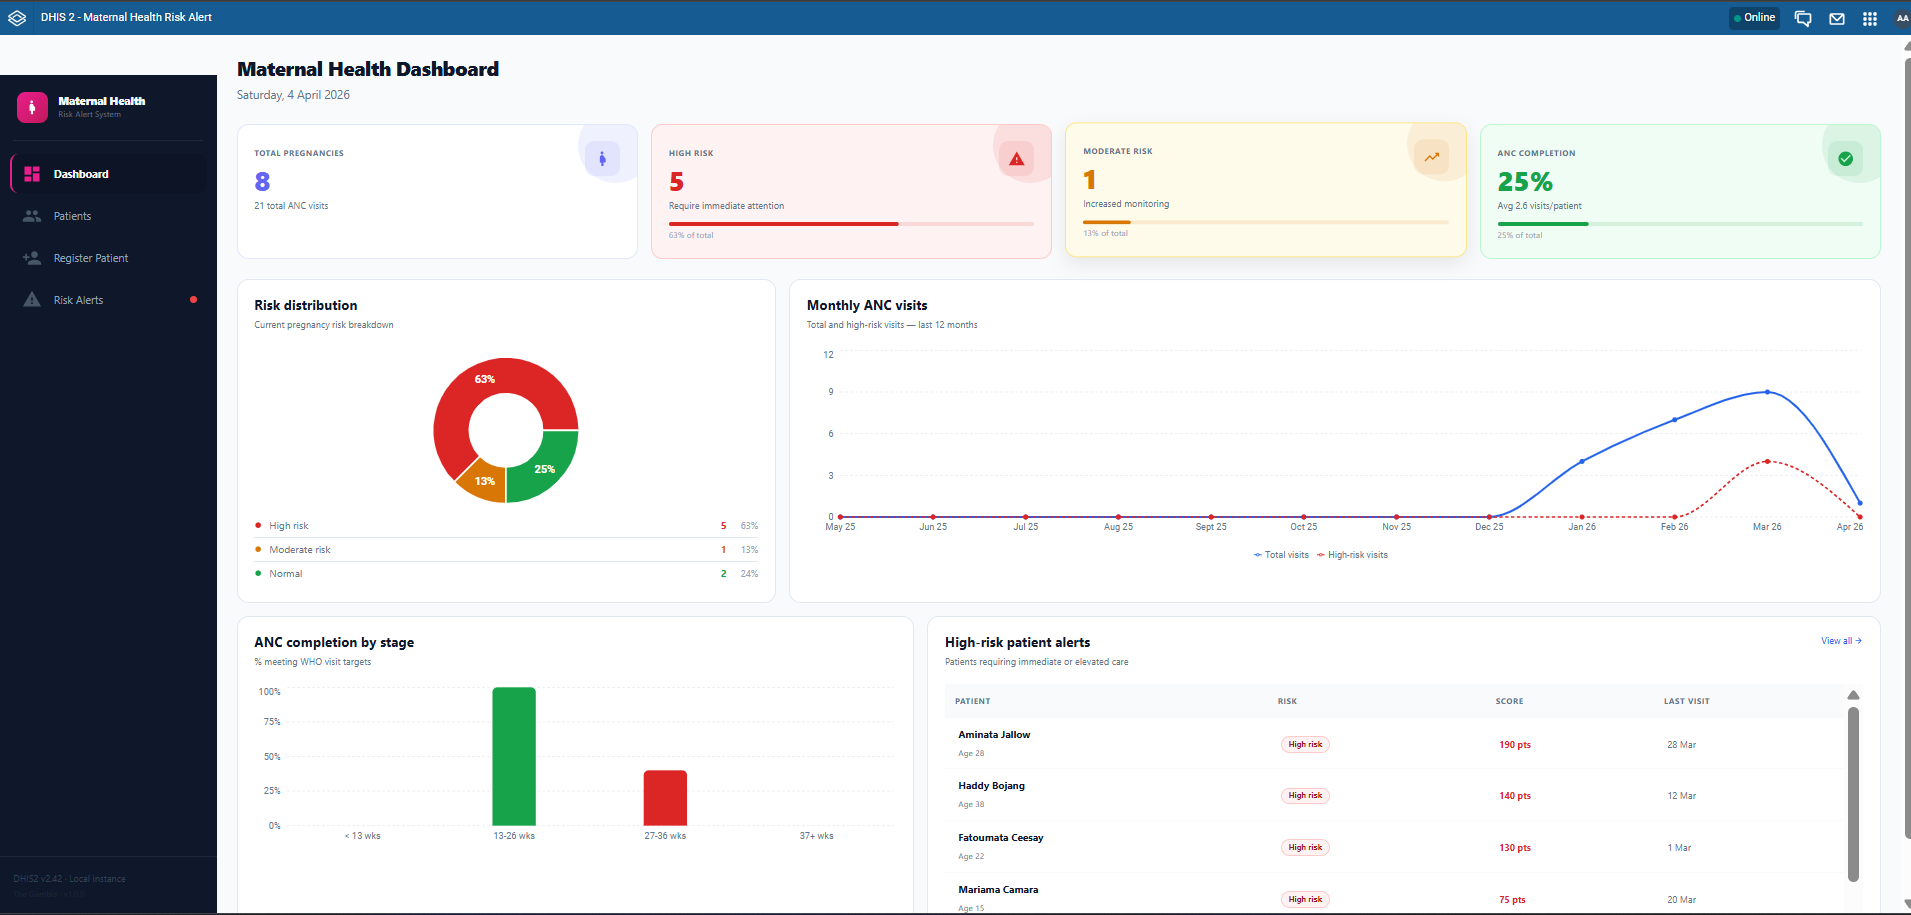
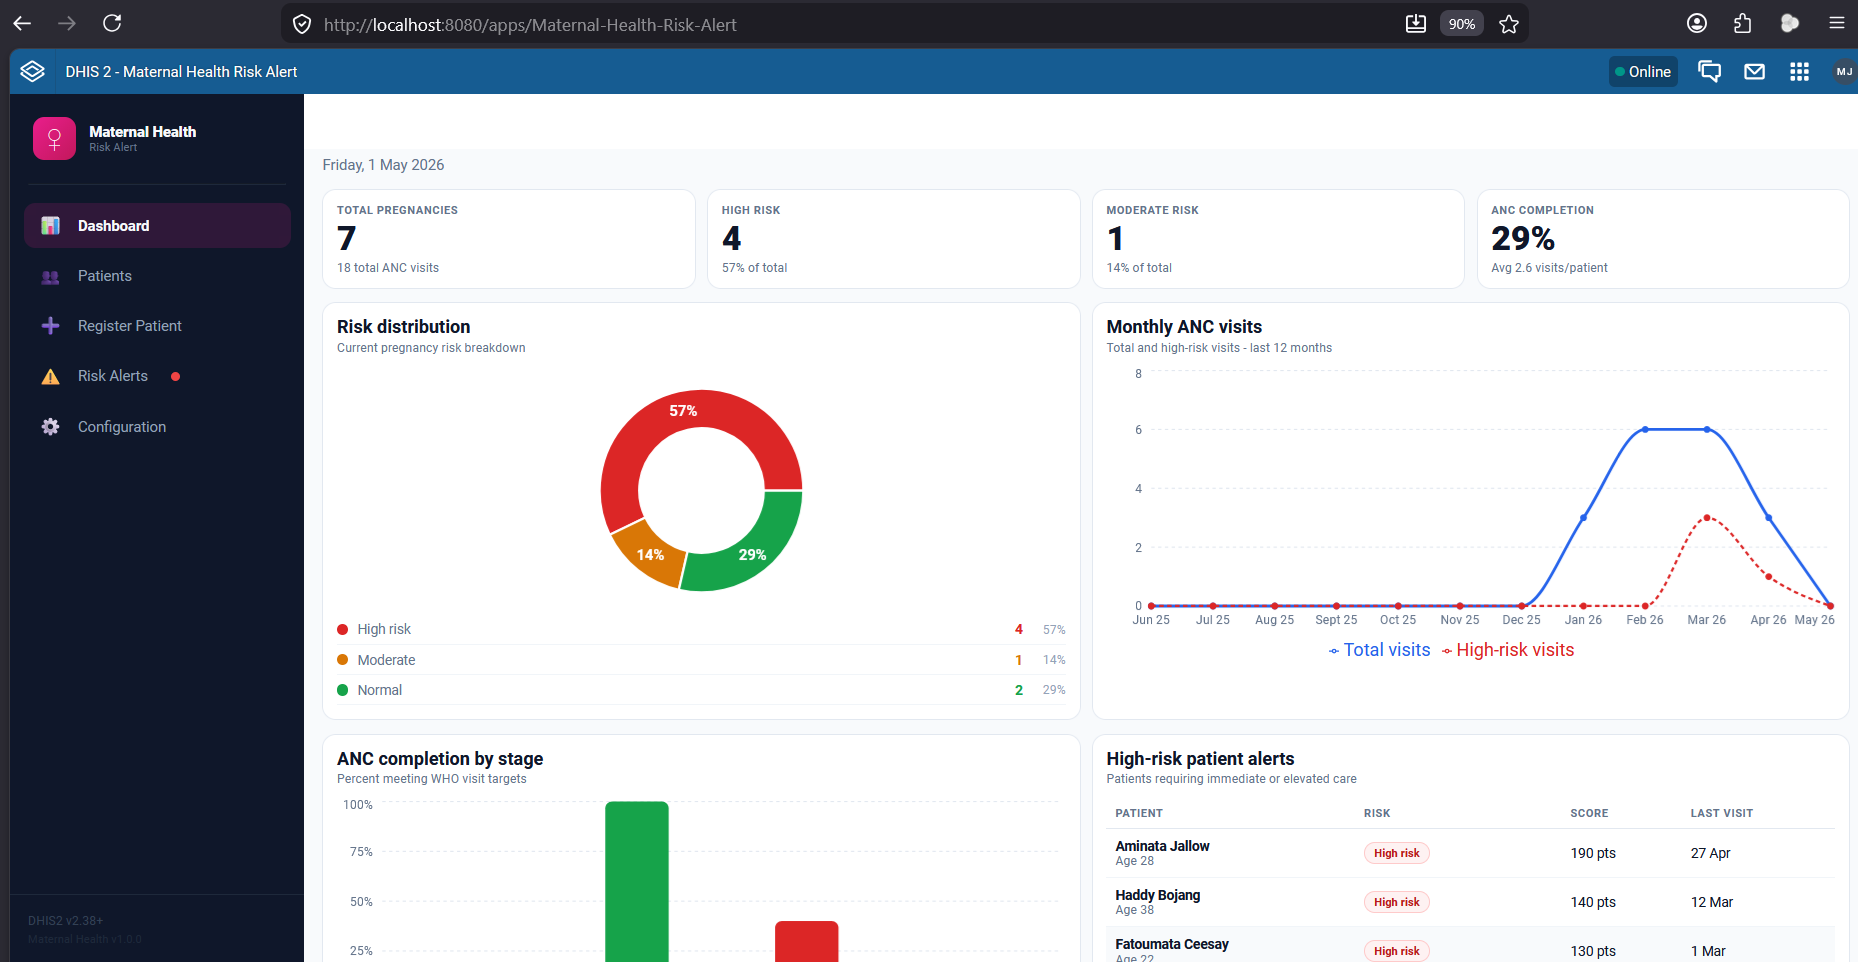
chore: update screenshots and README image links

diff --git a/README.md b/README.md
@@ -9,10 +9,17 @@ A DHIS2 web application that automatically identifies high-risk pregnancies duri
 
 ## Screenshots
 
-![Patient Detail](screenshots/screenshot-patient-detail.png)
+### Dashboard
+![Dashboard](screenshots/screenshot-dashboard.png)
 
-### Risk Alerts
-![Register](screenshots/screenshot-register.png)
+### Patients list
+![Patients list](screenshots/screenshot-patients.png)
+
+### Patient register
+![Register patient](screenshots/screenshot-register.png)
+
+### Risk alerts
+![Risk alerts](screenshots/screenshot-risk-alert.png)
 
 ## Overview
 
@@ -29,7 +36,7 @@ The app uses evidence-based clinical rules to score pregnancy risk based on vita
 - Colour-coded risk alerts dashboard for high, moderate, and normal risk
 - Patient visit history with blood pressure and haemoglobin trend charts
 - Runtime configuration page for mapping metadata to any DHIS2 instance
-- Compatible with DHIS2 v2.38 and above
+- Compatible with DHIS2 v2.42 and above
 
 ## Risk engine
 
